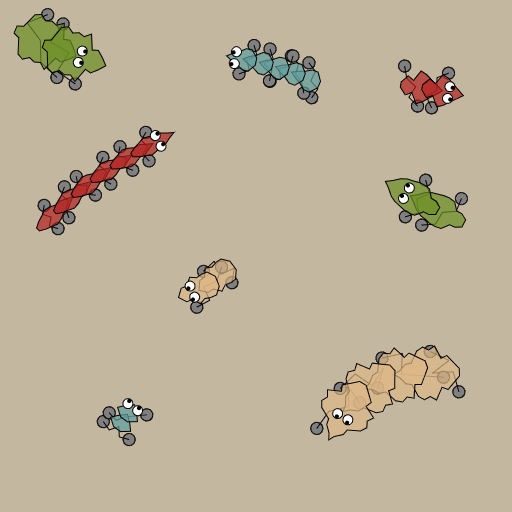
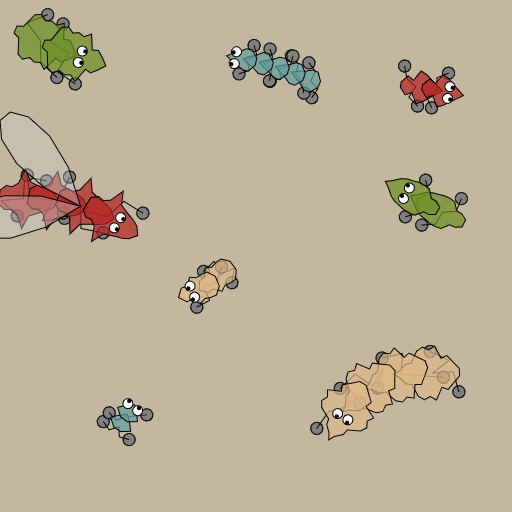
Added wings

Changed region(s): [[0.0, 0.25, 0.3438, 0.4688], [0.0, 0.2188, 0.0625, 0.3125], [0.0938, 0.2812, 0.125, 0.3125]]

diff --git a/js/bugFactory.js b/js/bugFactory.js
@@ -2,18 +2,38 @@ const BugFactory = function() {
     this.makeBug = (right, x, y) => {
         let lastBug;
         const lengthRandomizer = Math.random();
-        const length = LENGTH_MIN + Math.floor(lengthRandomizer * lengthRandomizer * lengthRandomizer * (LENGTH_MAX - LENGTH_MIN + 1)) - 1;
+        const length = BugFactory.LENGTH_MIN + Math.floor(lengthRandomizer * lengthRandomizer * lengthRandomizer * (BugFactory.LENGTH_MAX - BugFactory.LENGTH_MIN + 1));
         const body = new BodyShape();
         const newBug = lastBug = new Bug(x, y, body, right, null);
+        const segments = [];
 
-        for (let i = 0; i < length; ++i) {
+        for (let i = 0; i < length - 1; ++i) {
             const newSegment = new Bug(0, 0, body, right, lastBug, body.getLength() * Bug.SEGMENT_OVERLAP);
 
+            segments.push(newSegment);
             lastBug.setChild(newSegment);
 
             lastBug = newSegment;
         }
 
+        if (length >= BugFactory.WING_LENGTH_MIN && length <= BugFactory.WING_LENGTH_MAX && Math.random() < BugFactory.WING_CHANCE) {
+            const wingSize = Math.max(body.getThickness() * BugFactory.WING_SCALE * length, BugFactory.WING_SIZE_MIN);
+
+            if (length <= BugFactory.WING_ROOT_THRESHOLD)
+                newBug.setWings(new Wings(wingSize));
+            else
+                segments[0].setWings(new Wings(wingSize));
+        }
+
         return newBug;
     };
 };
+
+BugFactory.WING_CHANCE = 0.8;
+BugFactory.WING_LENGTH_MIN = 2;
+BugFactory.WING_LENGTH_MAX = 4;
+BugFactory.WING_SIZE_MIN = 70;
+BugFactory.WING_ROOT_THRESHOLD = 2;
+BugFactory.WING_SCALE = 1;
+BugFactory.LENGTH_MIN = 2;
+BugFactory.LENGTH_MAX = 10;

diff --git a/js/wings.js b/js/wings.js
@@ -1,0 +1,56 @@
+const Wings = function(radius) {
+    const noise = cubicNoiseConfig(Math.random());
+    const radians = Wings.RADIANS_MIN + (Wings.RADIANS_MAX - Wings.RADIANS_MIN) * Math.random();
+    const radii = [];
+
+    const drawWing = (context, sign, step) => {
+        let a = Math.PI;
+
+        context.beginPath();
+        context.moveTo(0, 0);
+
+        for (const radius of radii) {
+            context.lineTo(Math.cos(a) * radius, Math.sin(a) * radius);
+
+            a += step * sign;
+        }
+
+        context.closePath();
+        context.fill();
+        context.stroke();
+    };
+
+    this.draw = (context, lifetime) => {
+        const step = radians / Wings.PRECISION;
+        const amp = Math.pow(cubicNoiseSample1(noise, lifetime * Wings.SPEED_ACTIVATE), Wings.FLUTTER_ACTIVATION_POWER);
+        const angle = (cubicNoiseSample1(noise, lifetime * Wings.SPEED_FLUTTER) - 0.5) * Wings.AMPLITUDE * amp;
+
+        context.fillStyle = Wings.COLOR;
+        context.strokeStyle = "black";
+
+        context.save();
+        context.rotate(-angle);
+
+        drawWing(context, 1, step);
+
+        context.restore();
+        context.save();
+        context.rotate(angle);
+
+        drawWing(context, -1, step);
+
+        context.restore();
+    };
+
+    for (let i = 0; i < Wings.PRECISION; ++i)
+        radii.push(Math.sin((i / (Wings.PRECISION - 1)) * Math.PI) * radius);
+};
+
+Wings.COLOR = "rgba(200,200,200,0.4)";
+Wings.PRECISION = 10;
+Wings.RADIANS_MIN = Math.PI * 0.2;
+Wings.RADIANS_MAX = Math.PI * 0.5;
+Wings.SPEED_FLUTTER = 12;
+Wings.SPEED_ACTIVATE = 0.3;
+Wings.AMPLITUDE = Math.PI;
+Wings.FLUTTER_ACTIVATION_POWER = 4;

diff --git a/js/bug.js b/js/bug.js
@@ -2,6 +2,7 @@ const Bug = function(x, y, body, right, parent, followDistance) {
     const legs = [];
     const noise = cubicNoiseConfig(Math.random());
     let child = null;
+    let wings = null;
     let lifetime = 0;
     let speed;
     let direction;
@@ -96,6 +97,10 @@ const Bug = function(x, y, body, right, parent, followDistance) {
         child = bug;
     };
 
+    this.setWings = w => {
+        wings = w;
+    };
+
     this.drawLegs = context => {
         if (child)
             child.drawLegs(context);
@@ -117,10 +122,15 @@ const Bug = function(x, y, body, right, parent, followDistance) {
         if (!parent)
             drawEyes(context);
 
+        if (wings)
+            wings.draw(context, lifetime);
+
         context.restore();
     };
 
     this.update = (timeStep, width, height) => {
+        lifetime += timeStep;
+
         if (parent) {
             const dx = parent.getX() - x;
             const dy = parent.getY() - y;
@@ -133,8 +143,6 @@ const Bug = function(x, y, body, right, parent, followDistance) {
             speed = parent.getSpeed();
         }
         else {
-            lifetime += timeStep;
-
             x += Math.cos(direction) * speed * timeStep;
             y += Math.sin(direction) * speed * timeStep;
 

diff --git a/index.html b/index.html
@@ -16,6 +16,7 @@
     </div>
     <script src="js/cubicNoise.js"></script>
     <script src="js/bodyShape.js"></script>
+    <script src="js/wings.js"></script>
     <script src="js/leg.js"></script>
     <script src="js/bug.js"></script>
     <script src="js/bugFactory.js"></script>

diff --git a/js/main.js b/js/main.js
@@ -1,8 +1,6 @@
-const BUG_TIME_MINIMUM = 2;
+const BUG_TIME_MINIMUM = 1;
 const BUG_TIME_MAXIMUM = 4;
 const TIME_STEP_MAX = 0.2;
-const LENGTH_MIN = 2;
-const LENGTH_MAX = 10;
 
 const wrapper = document.getElementById("wrapper");
 const canvas = document.getElementById("renderer");
